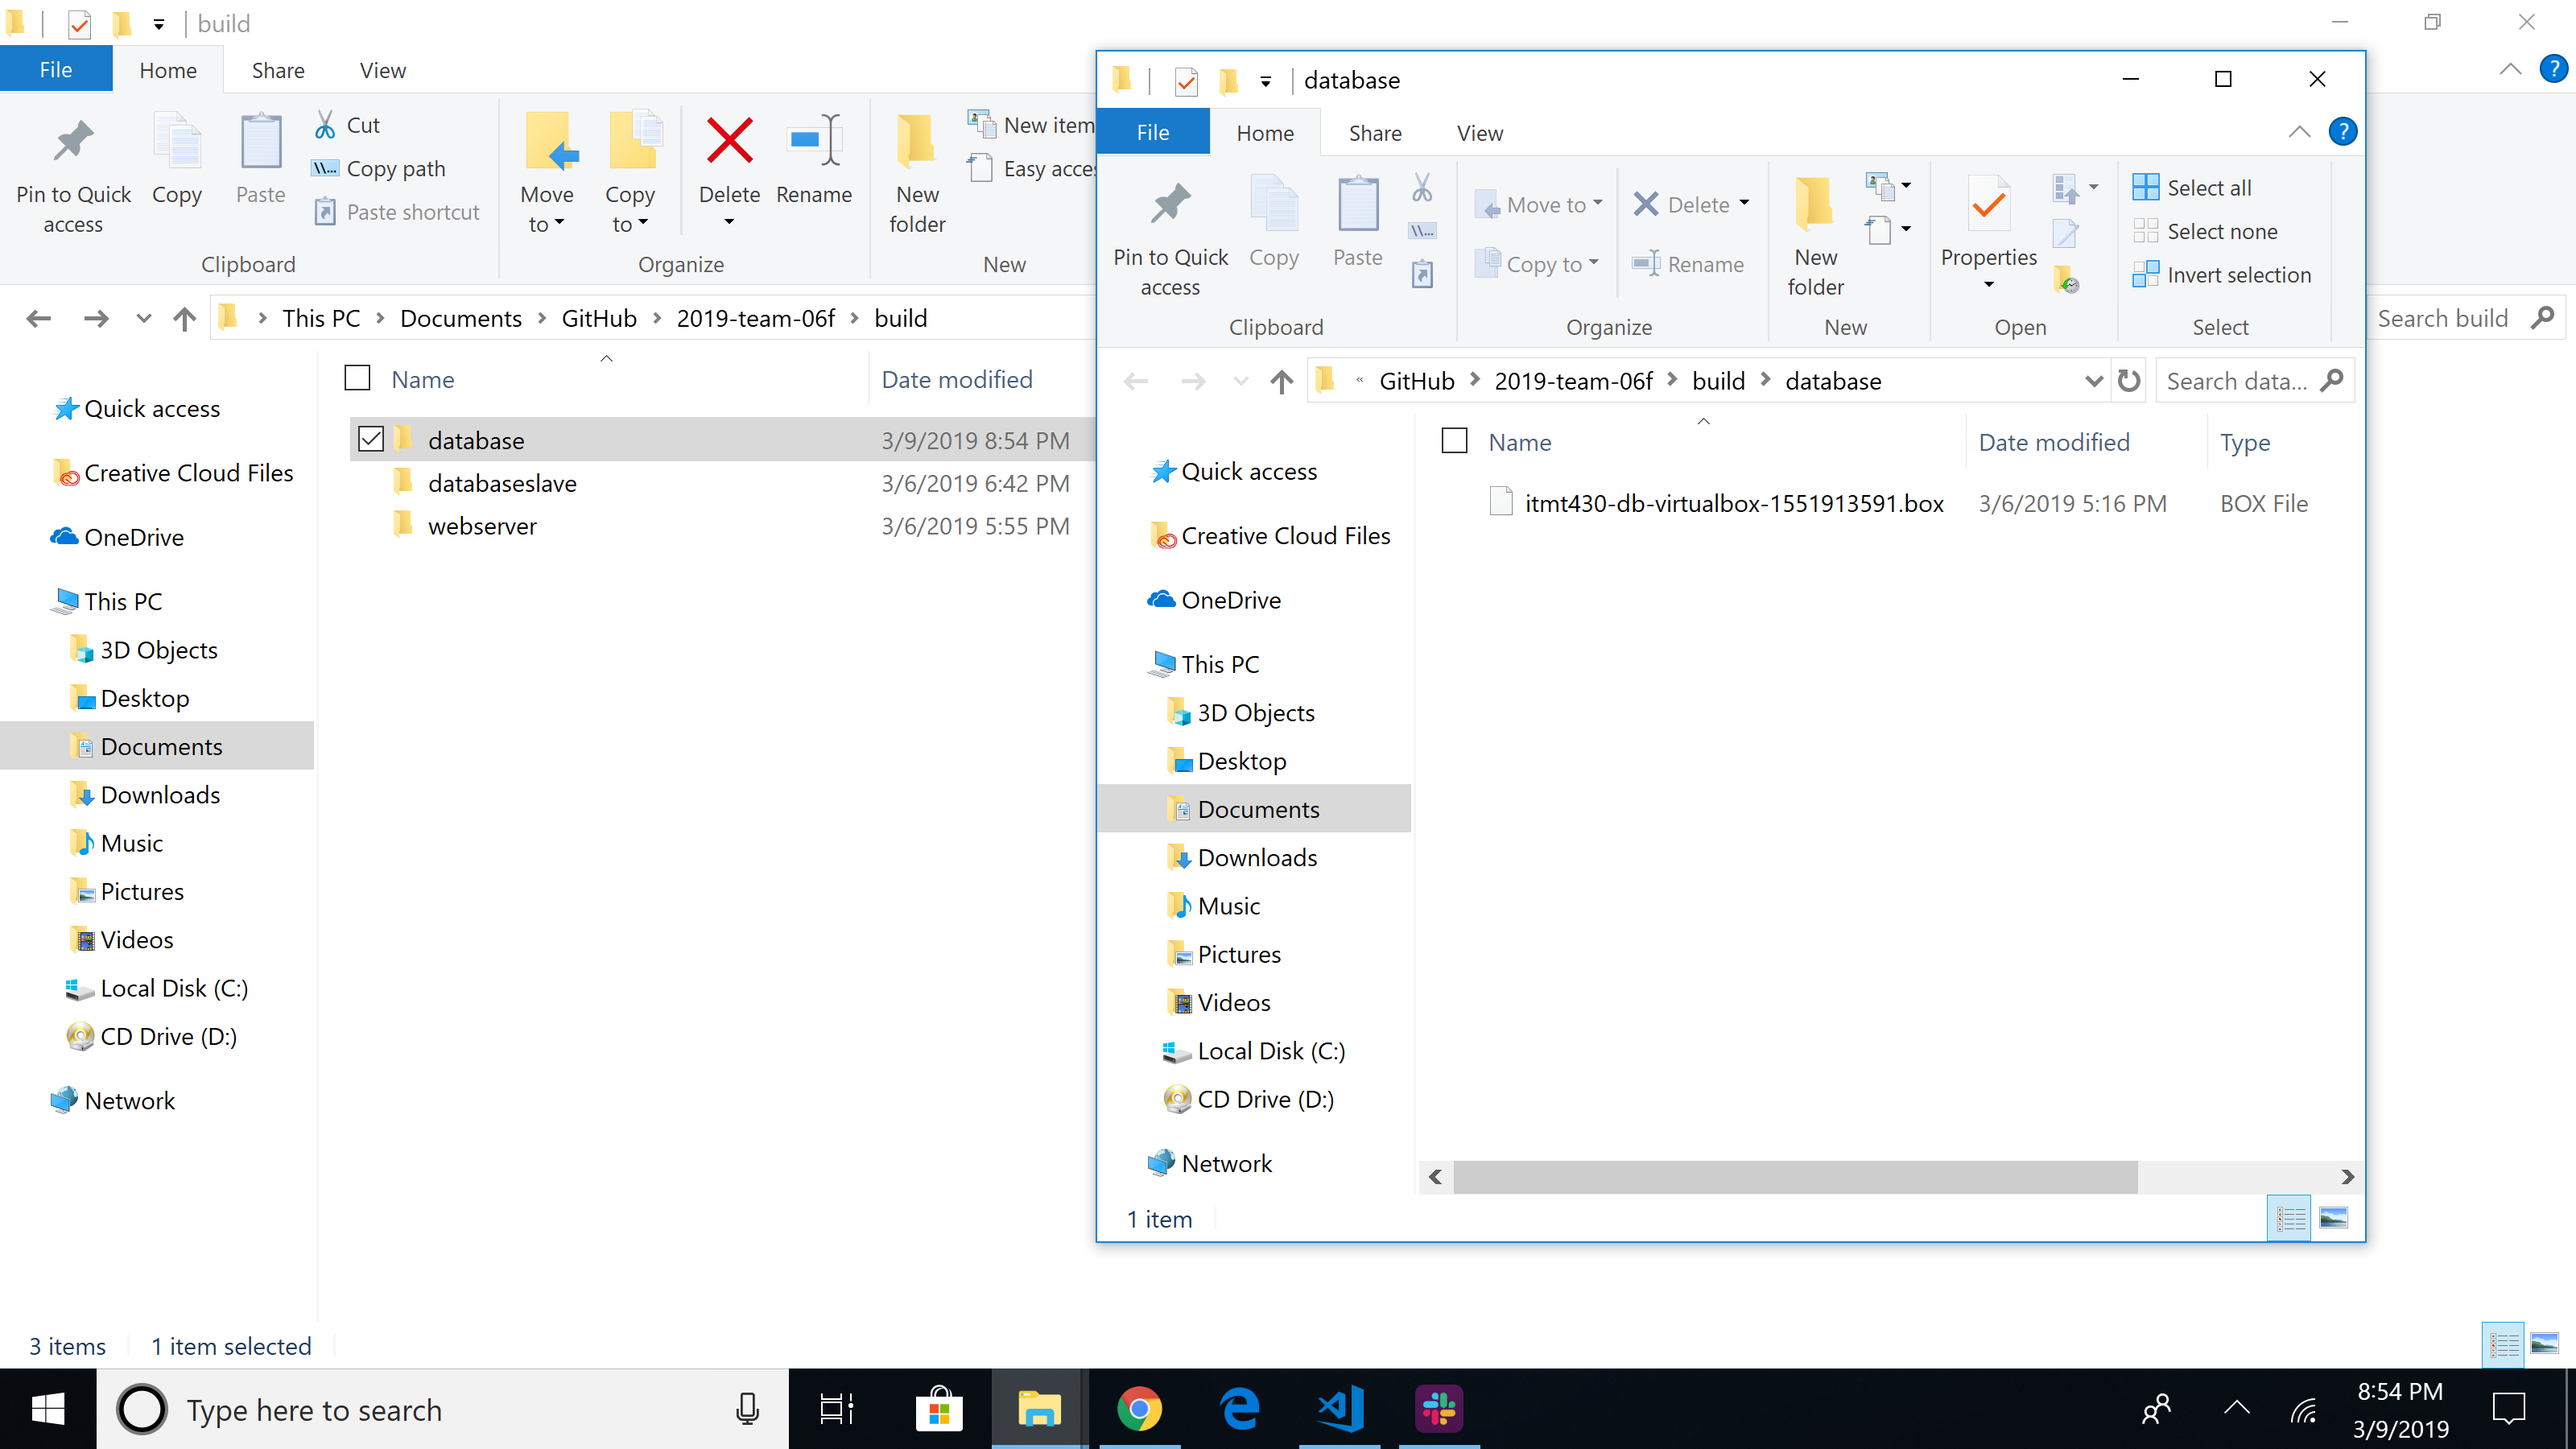
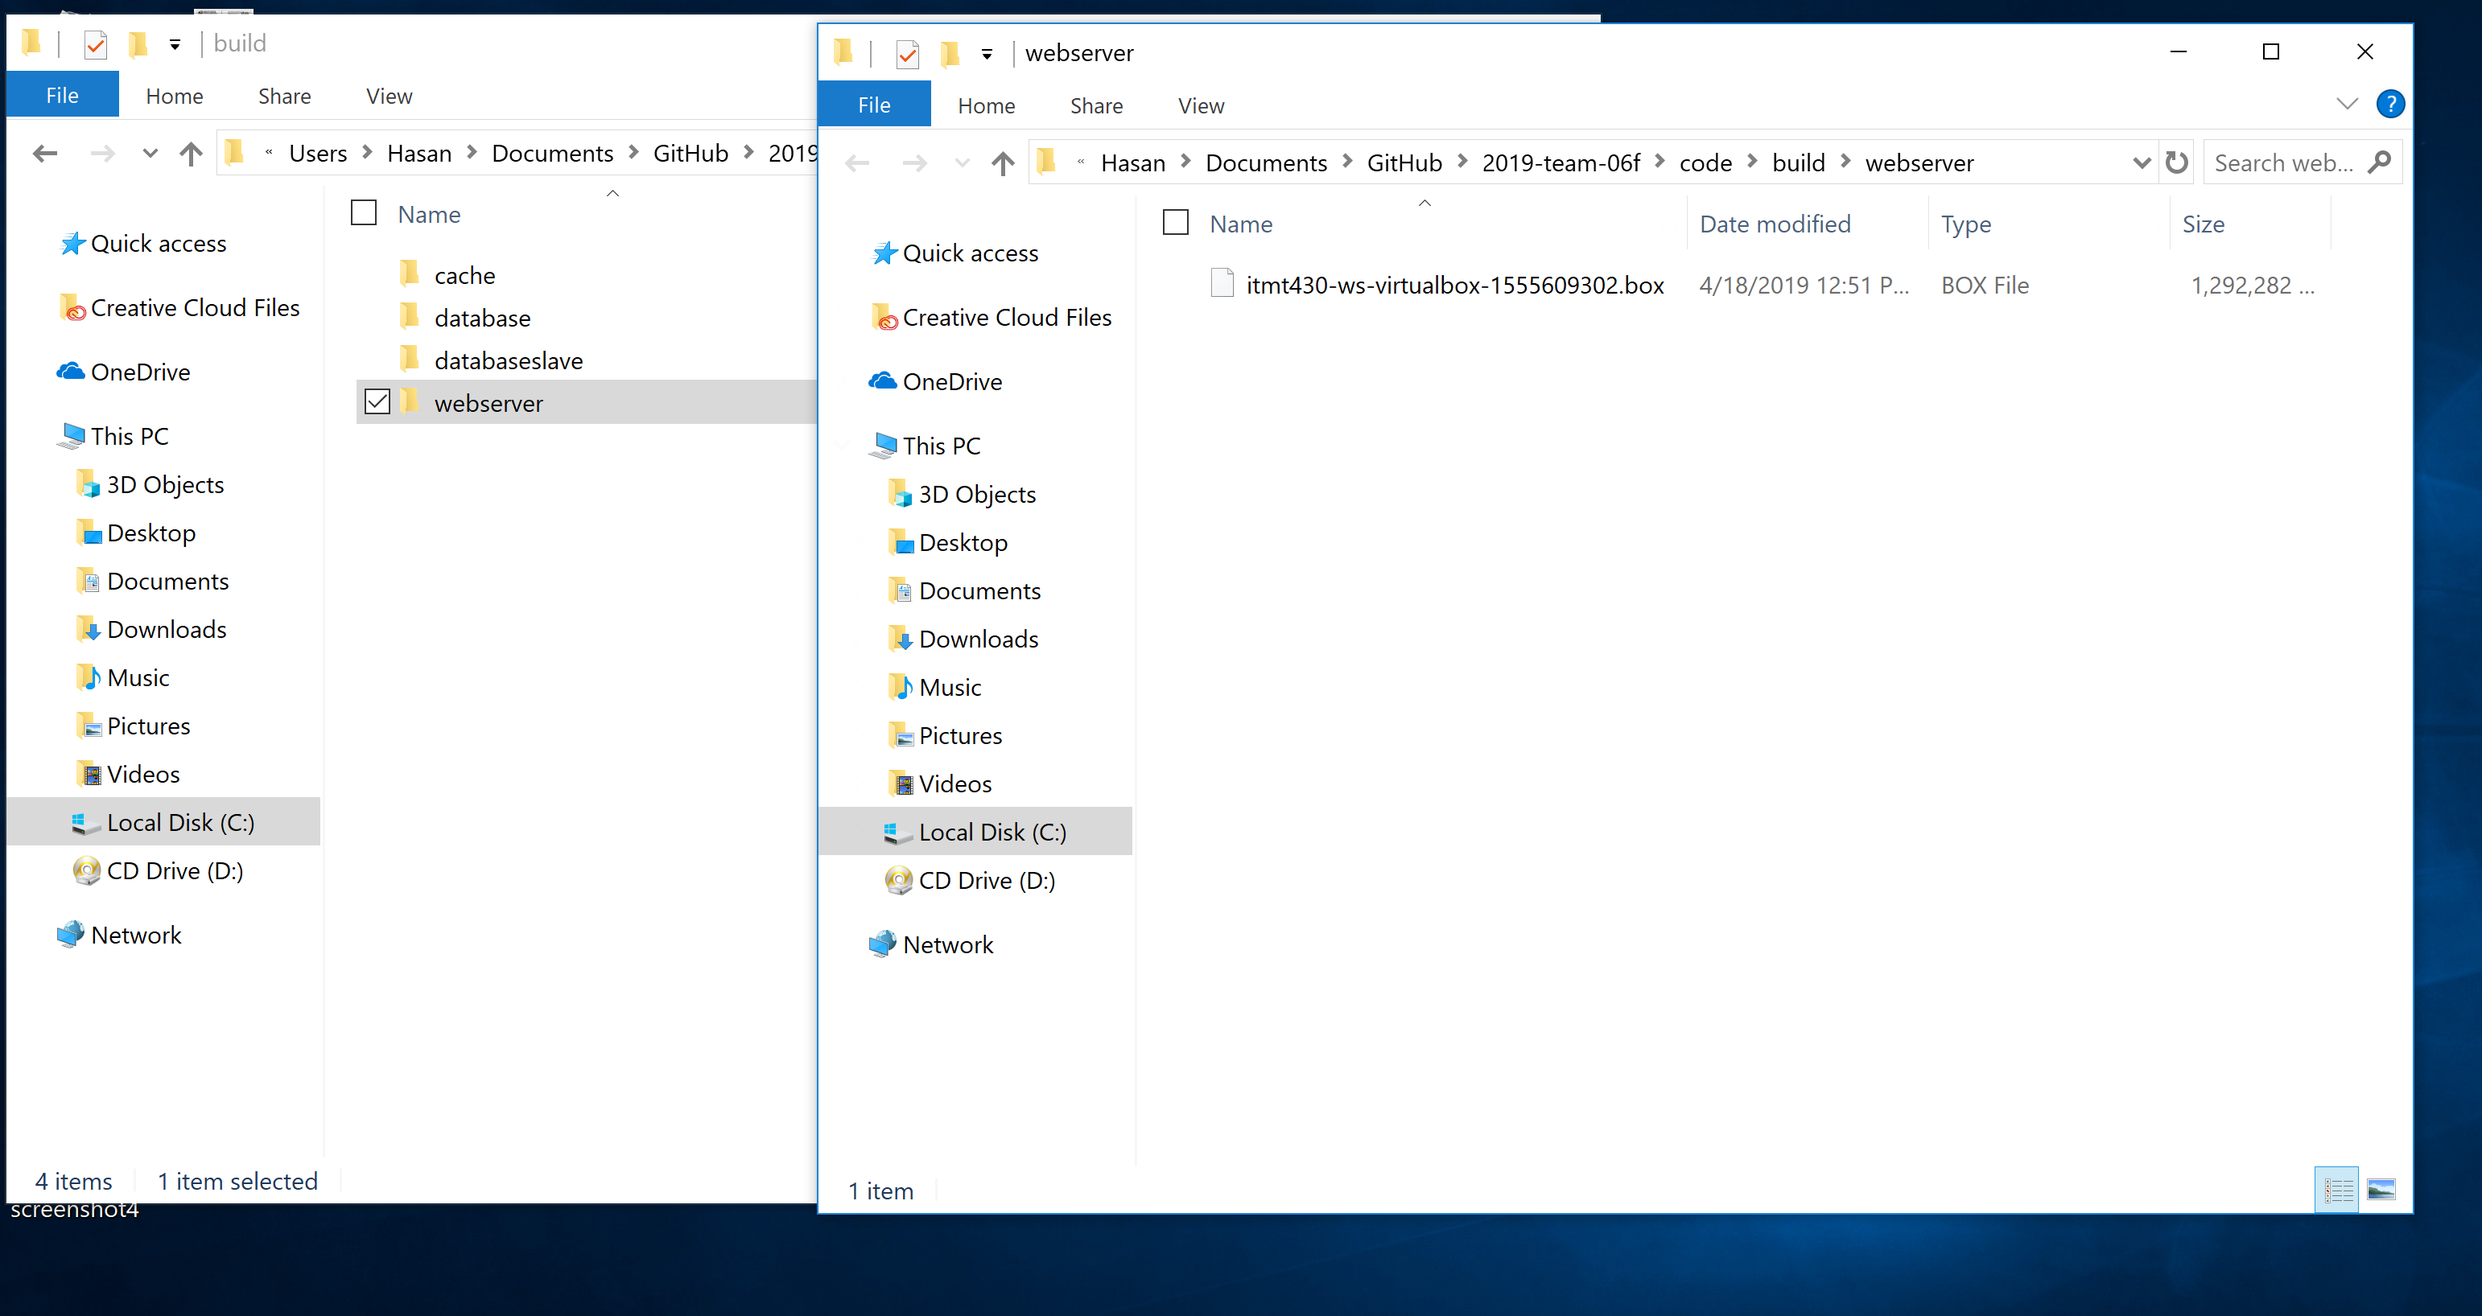
readme

diff --git a/README.md b/README.md
@@ -34,7 +34,7 @@ This is how we are passing passwords/RSA keys securely.
 
 1) Setting Enviornment Variables for Vault
    
-   You need to set two environment variables on your local machine for vault to accessed properly by Packer 
+   You need to set two environment variables on your local machine for vault to be accessed properly by Packer 
    VAULT_ADDR='http://127.0.0.1:8200' </br> 
    VAULT_TOKEN=root
    
@@ -77,6 +77,7 @@ This is how we are passing passwords/RSA keys securely.
 ```vagrant init webserver```</br>
 ```vagrant init databaseslave```</br>
 ```vagrant init cache``` </br> 
+![screenshot7](code/img/screenshot7.png "Screenshot7")
 1) Configure the Vagrantfile for each server by uncommenting line 40 and replacing it with ```config.vm.network "public_network", ip: "127.0.0.1", netmask: "255.255.0.0"```. Replace the 127.0.0.1 with the ip used for that specific server in the vault when building with Packer. Save the Vagrantfiles.
 ![screenshot3](code/img/screenshot3.png "Screenshot3")
 1) Issue the command ```vagrant up``` for each of the servers.
